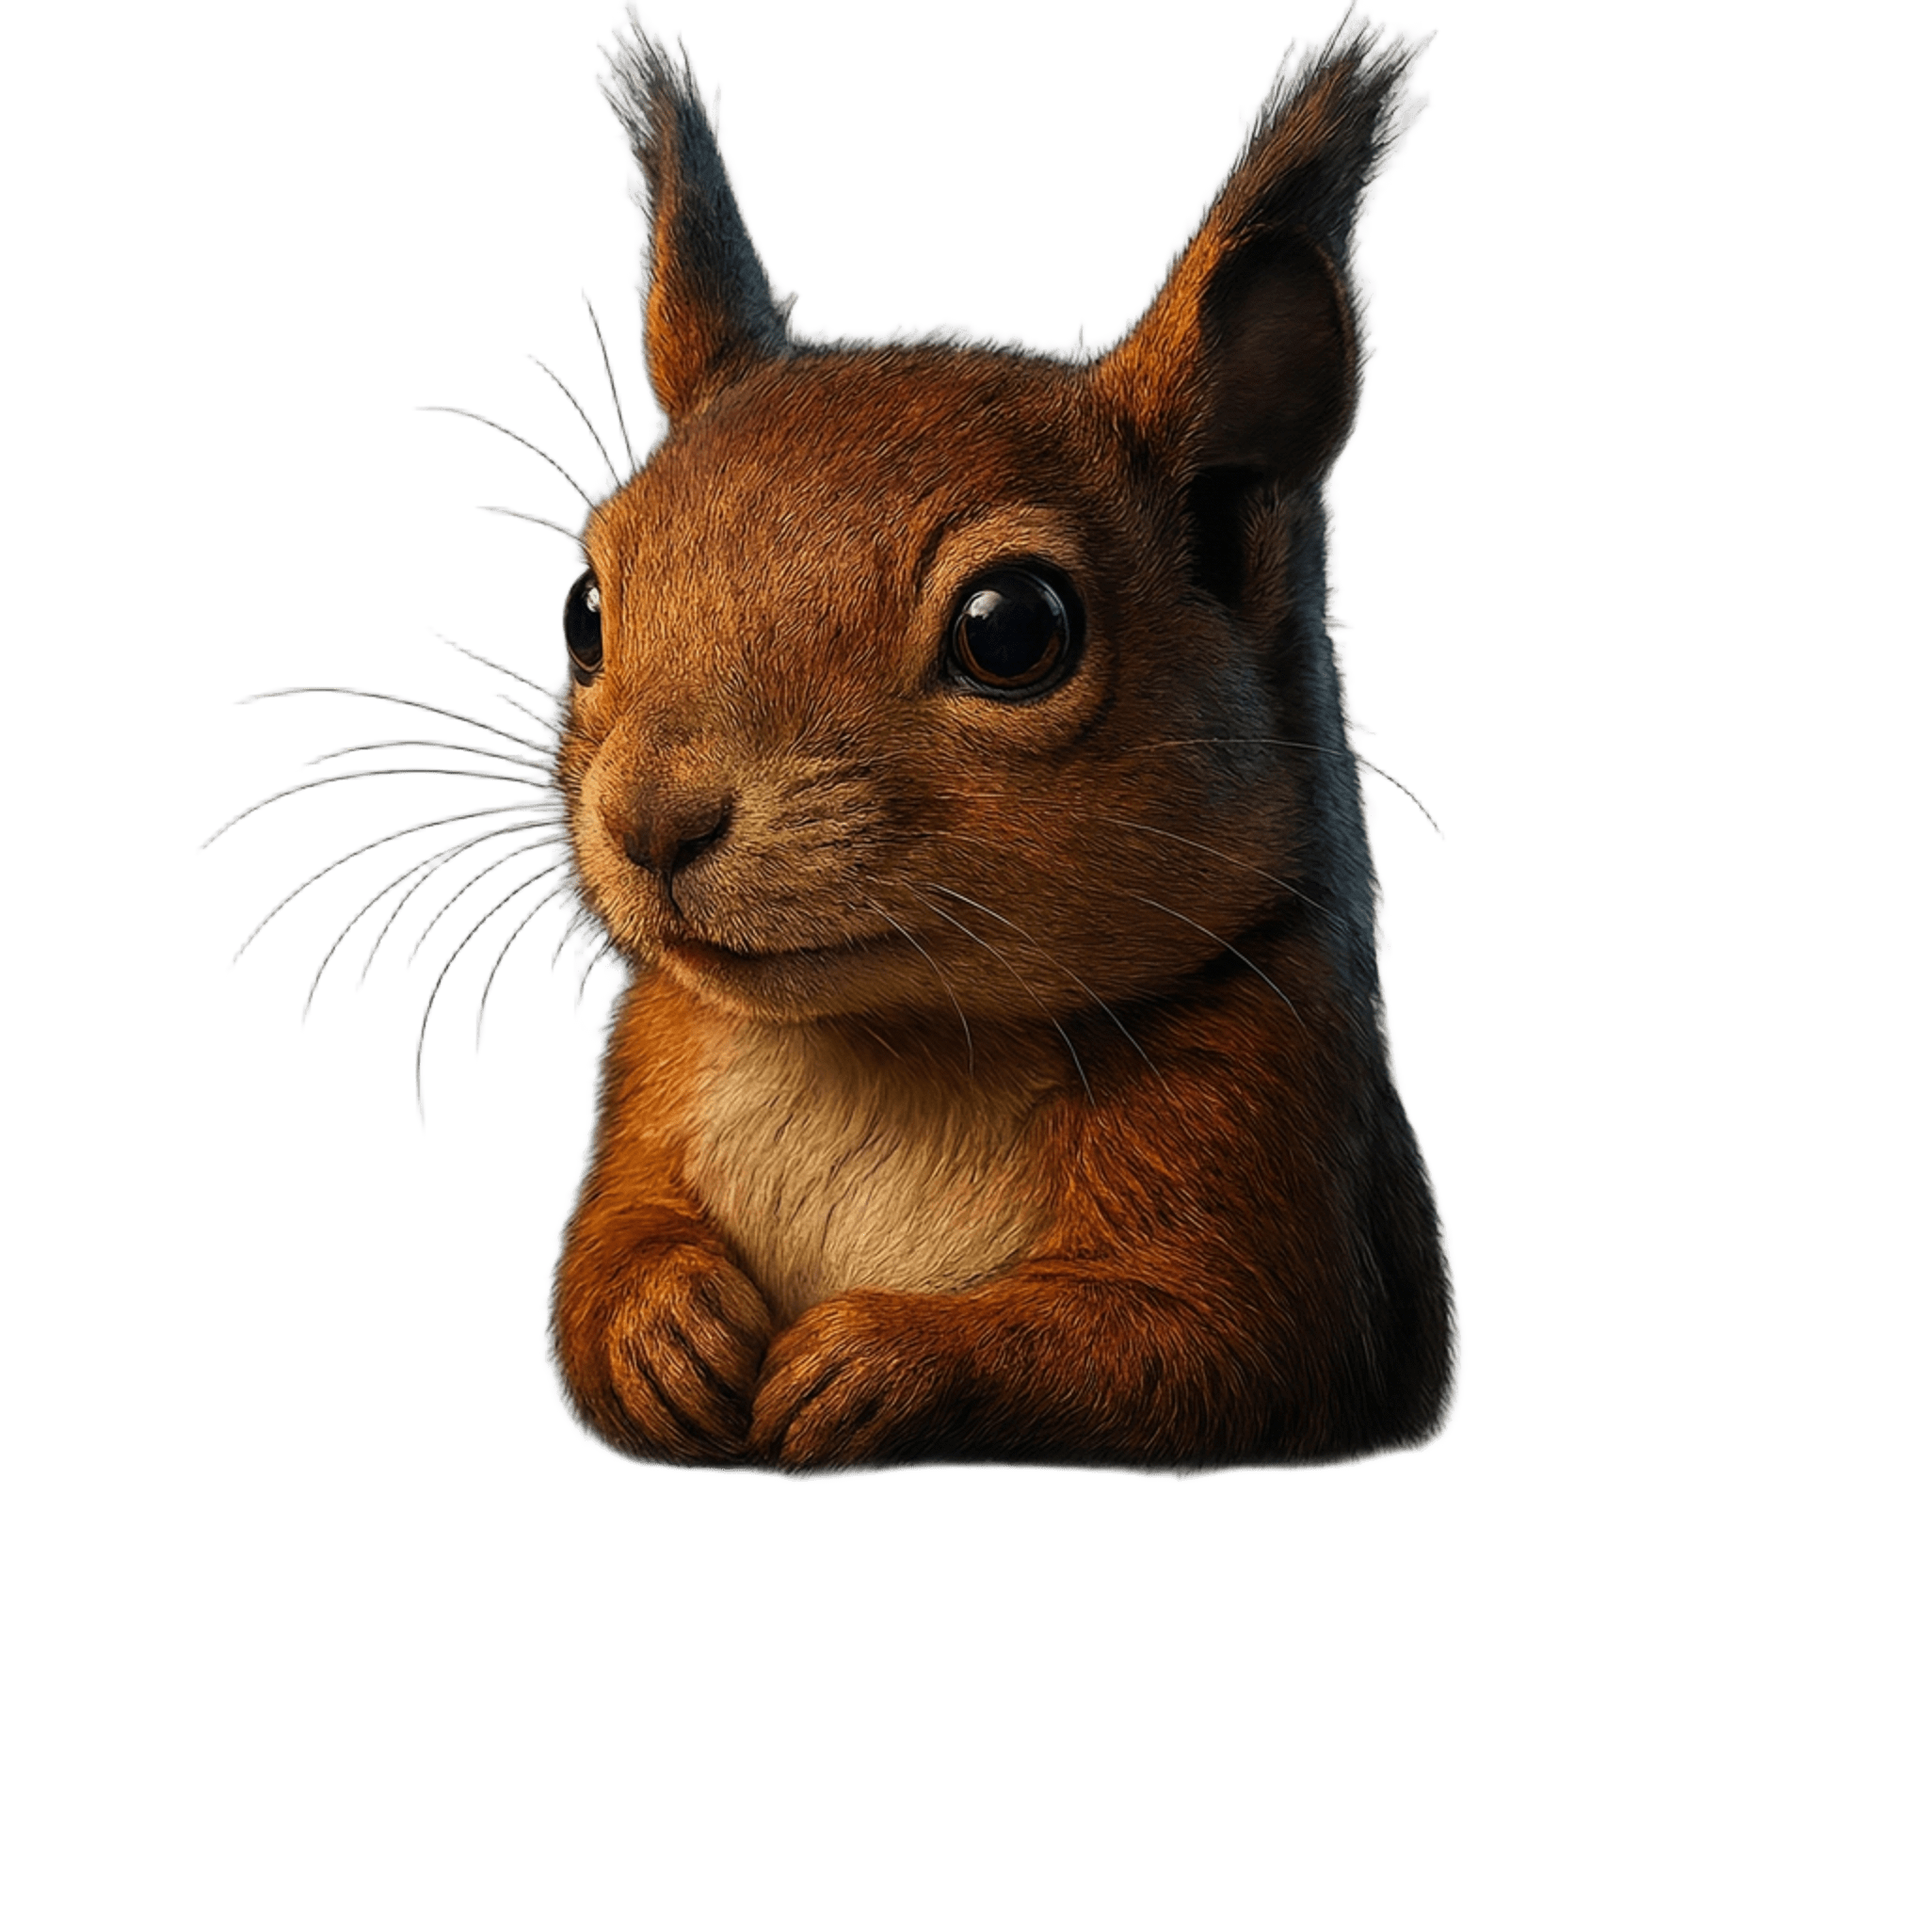
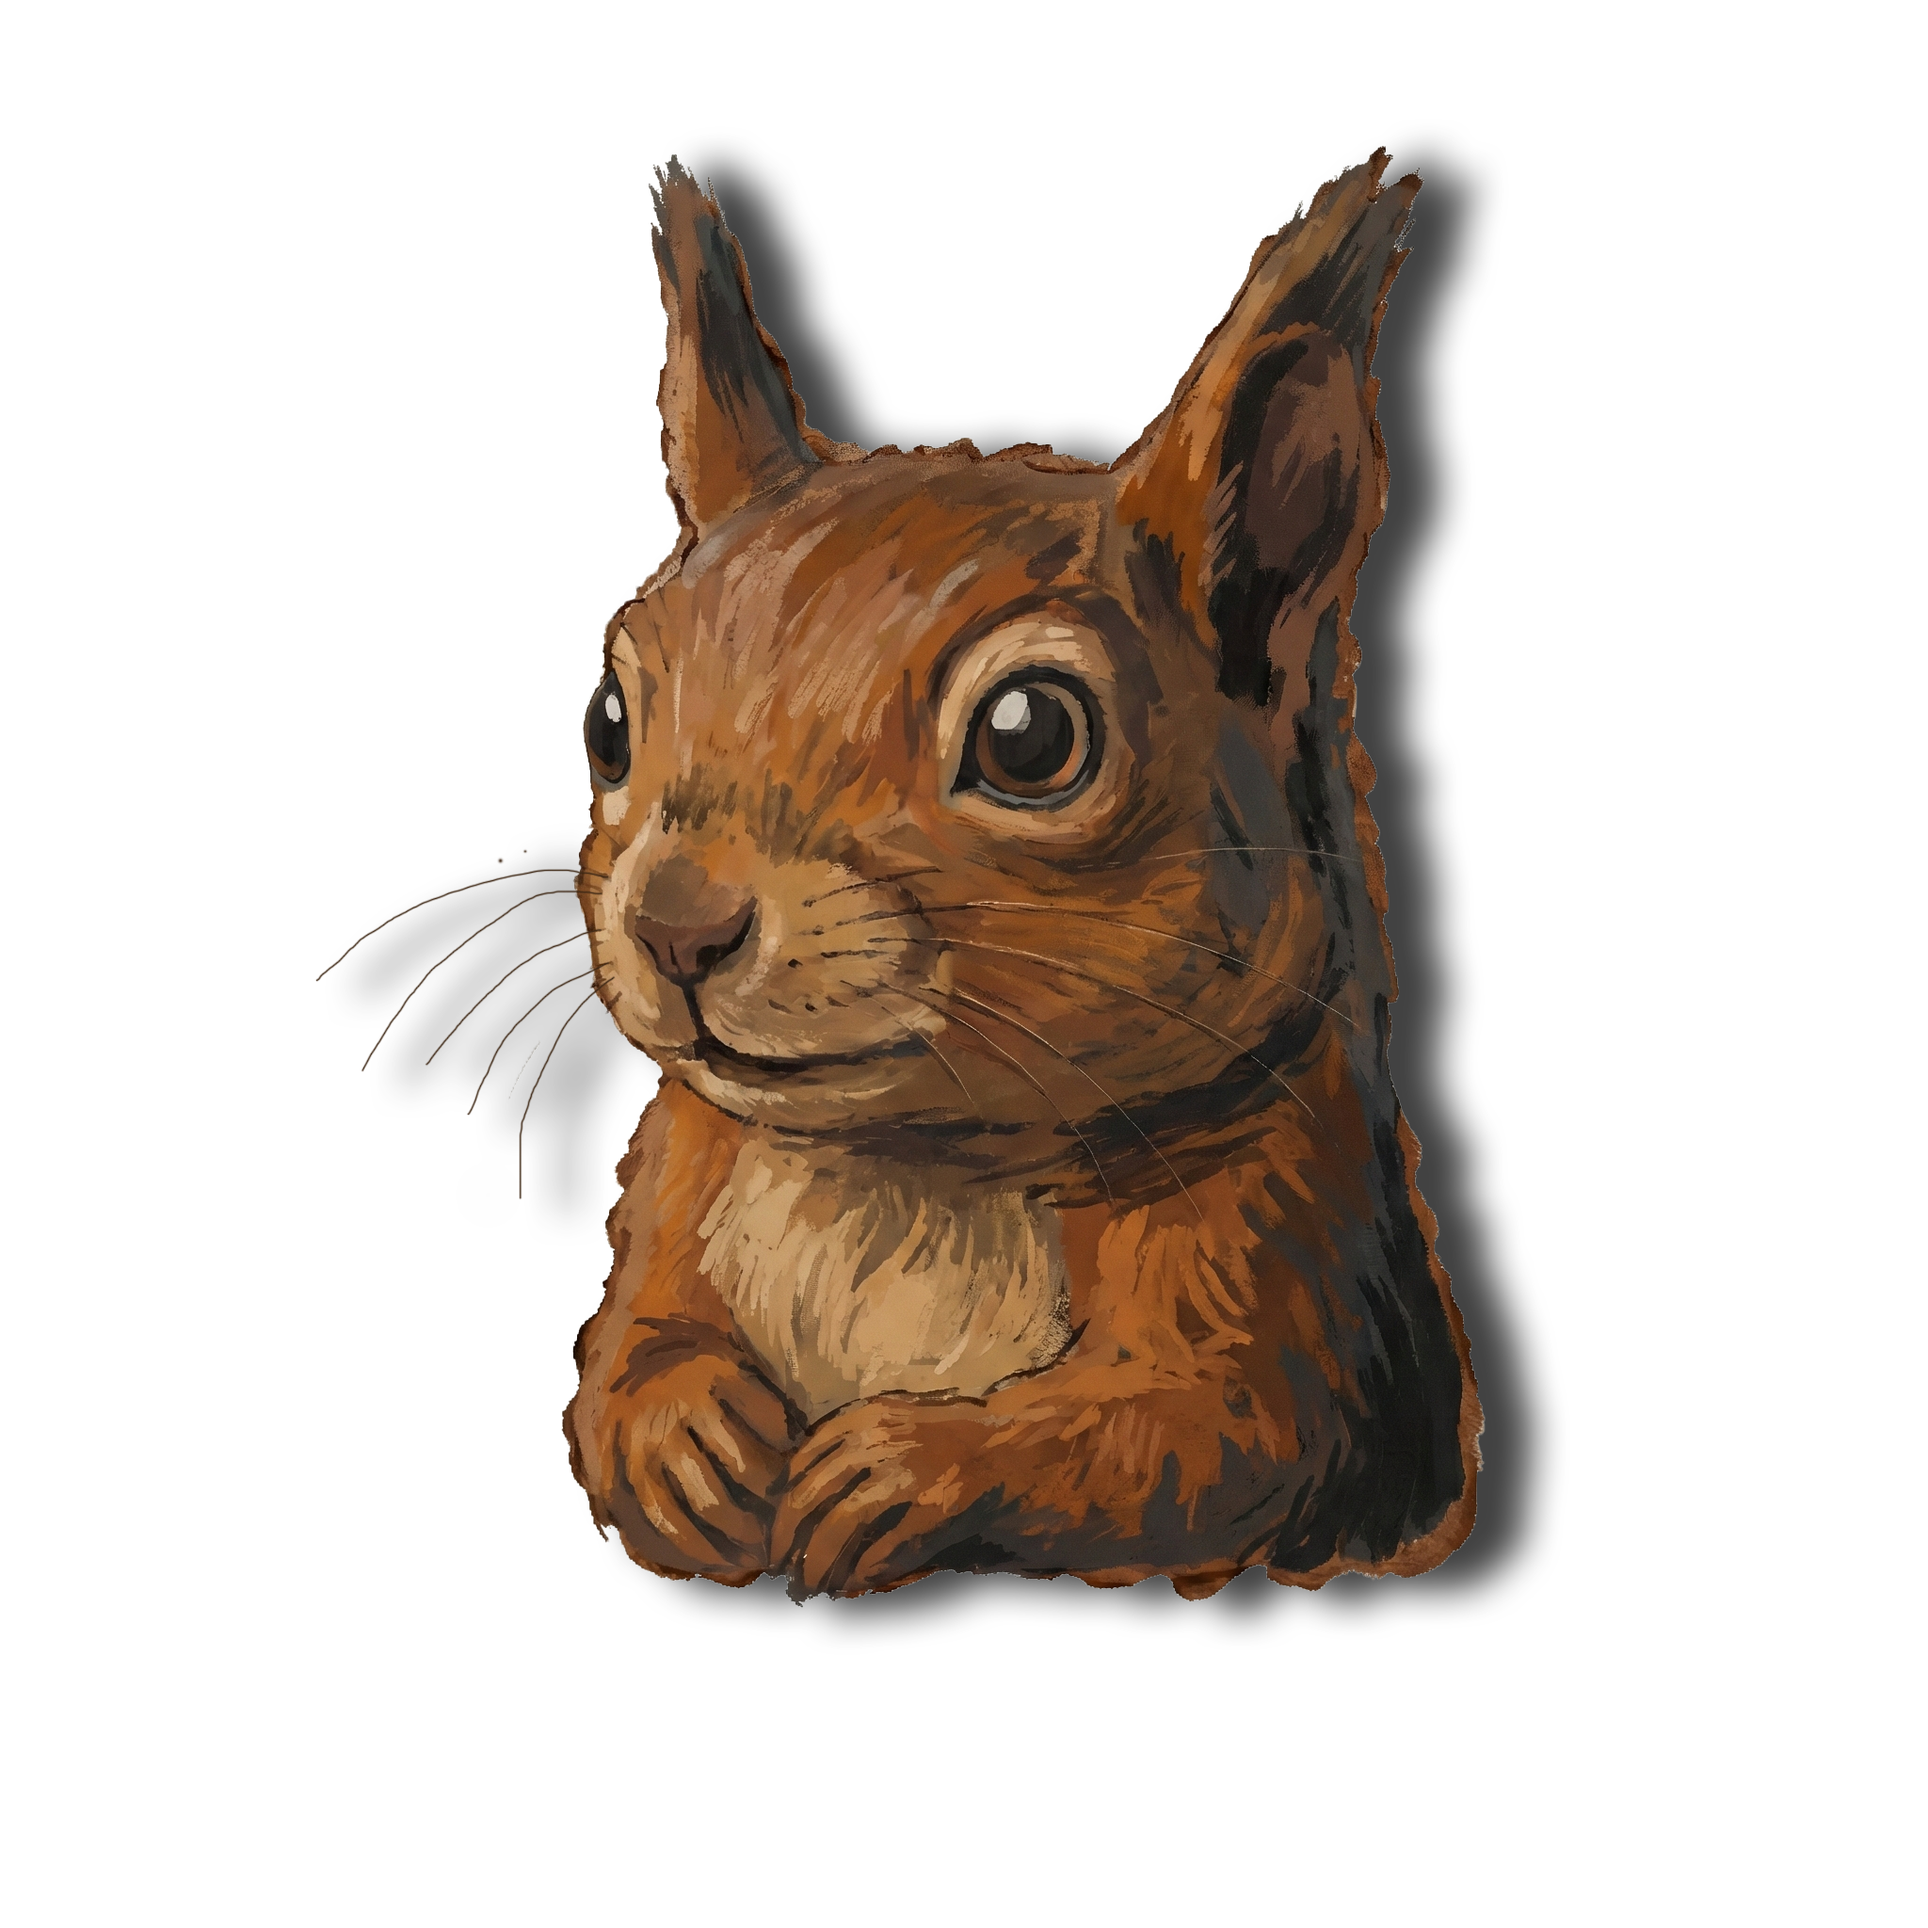
feat: add Indonesian audio note to Long Video + fix font consistency
- Add Indonesian audio limitation note below prompt in Long Video page (GenerateByAI-70r)
- Match 'Imajinasi Nusantara' font with 'Hello, CREATOR!' style (GenerateByAI-1qd)
- Fix ToastType error in video-generator.tsx

diff --git a/app/long-video/page.tsx b/app/long-video/page.tsx
@@ -179,9 +179,15 @@ export default function LongVideoPage() {
                                     placeholder="Describe your video... e.g., 'A woman applying perfume in a luxury bathroom, soft lighting, elegant movements'"
                                     className="w-full h-32 px-4 py-3 bg-surface-2 border border-border rounded-xl text-foreground placeholder:text-muted-foreground focus:outline-none focus:ring-2 focus:ring-primary/50 resize-none"
                                 />
-                                <p className="text-xs text-muted-foreground text-right">
-                                    {prompt.length} karakter
-                                </p>
+                                <div className="flex items-center justify-between">
+                                    <p className="text-xs text-muted-foreground flex items-center gap-1">
+                                        <Icon icon="mingcute:information-line" className="w-3.5 h-3.5" />
+                                        Audio bahasa Indonesia belum didukung secara native
+                                    </p>
+                                    <p className="text-xs text-muted-foreground">
+                                        {prompt.length} karakter
+                                    </p>
+                                </div>
                             </div>
 
                             {/* Duration Selection */}

diff --git a/app/page.tsx b/app/page.tsx
@@ -188,9 +188,9 @@ function HomeContent() {
             </p>
 
             {/* Main Headline */}
-            <h1 className="font-heritage text-[10vw] md:text-[7vw] lg:text-[5vw] font-medium leading-[0.95] tracking-tight text-white mb-4 md:mb-6 animate-scale-in">
+            <h1 className="text-[10vw] md:text-[7vw] lg:text-[5vw] font-bold leading-[0.95] tracking-tight text-white mb-4 md:mb-6 animate-scale-in">
               Imajinasi<br />
-              <span className="italic">Nusantara</span>
+              <span className="text-primary">Nusantara</span>
             </h1>
 
             {/* Mascot - Clickable */}

diff --git a/components/video-generator.tsx b/components/video-generator.tsx
@@ -1619,7 +1619,7 @@ export function VideoGenerator() {
                                     }}
                                     onCancel={() => {
                                         setActiveLongVideoId(null);
-                                        showToast("Long video job canceled", "default");
+                                        showToast("Long video job canceled", "info");
                                     }}
                                 />
                             </div>
